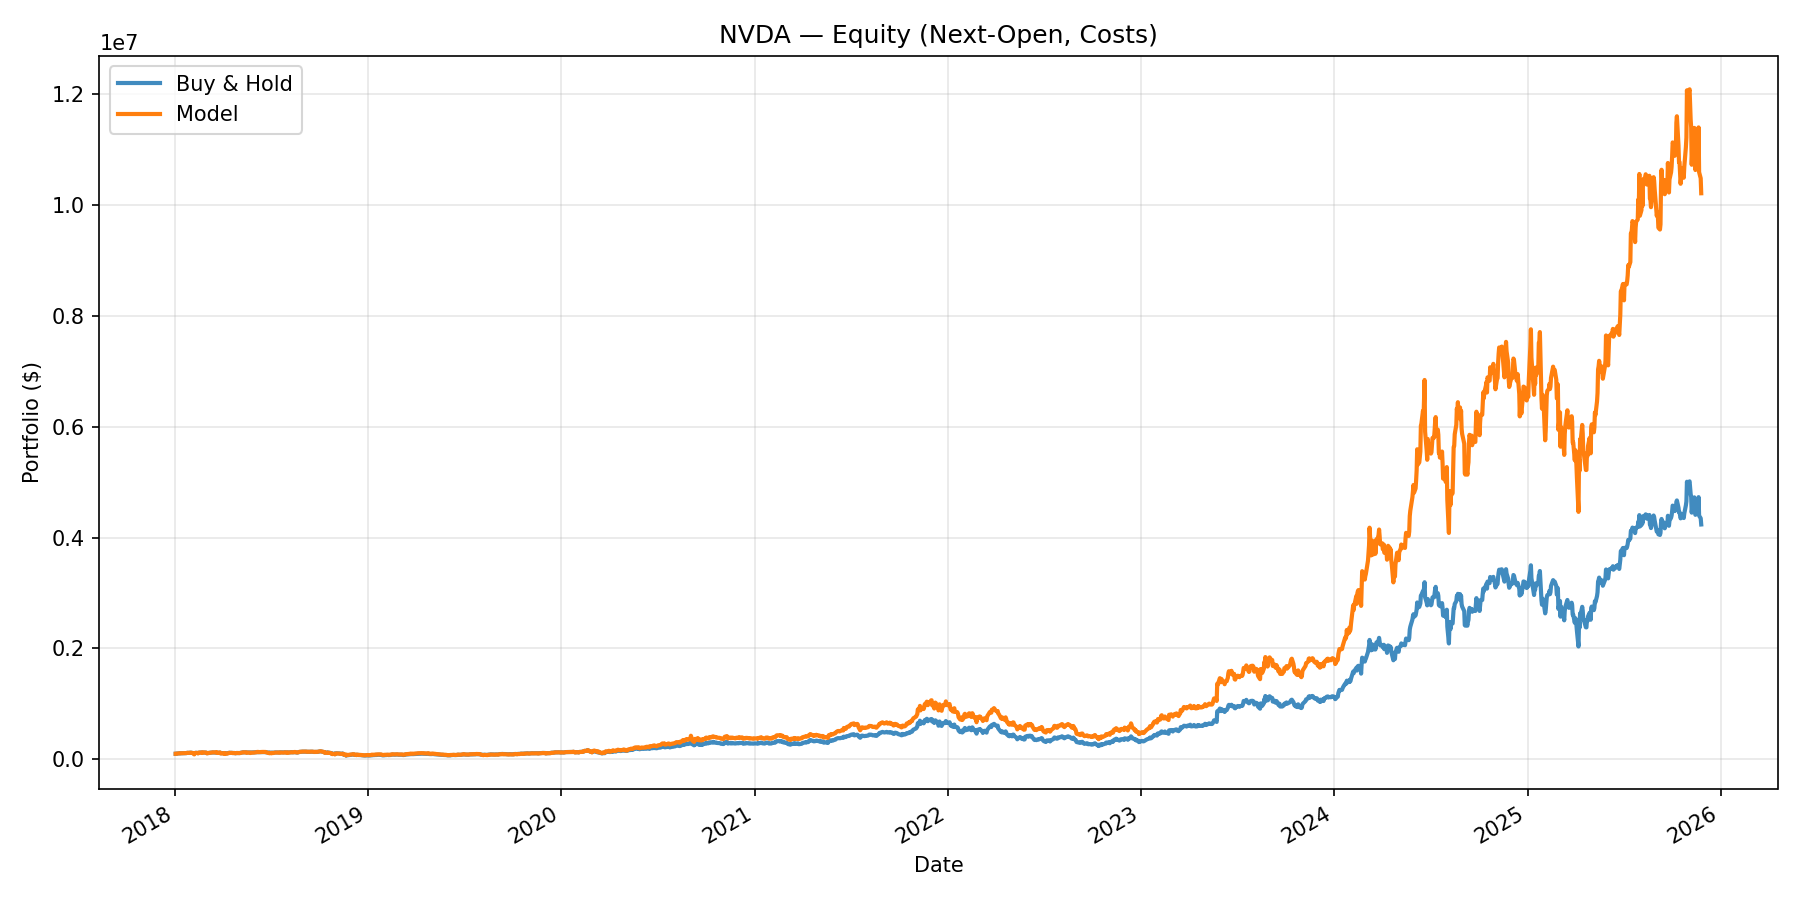
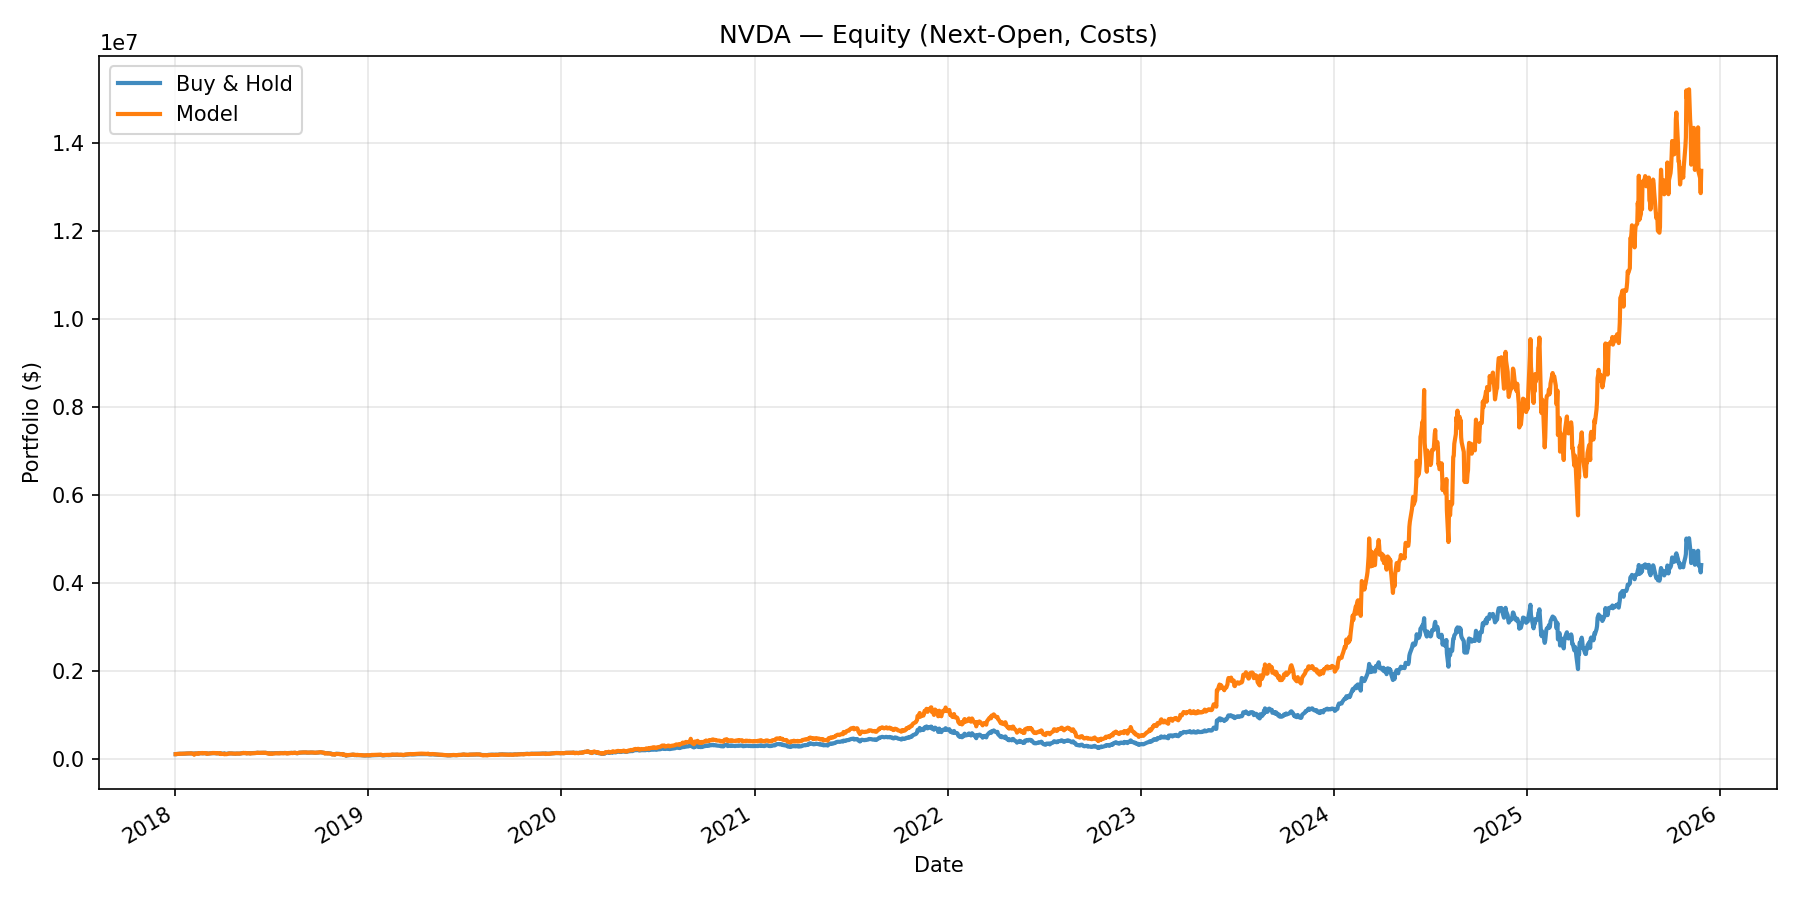
updated readme, added some comments

diff --git a/scripts/config.py b/scripts/config.py
@@ -10,7 +10,7 @@ from pathlib import Path
 FAST_MODE = True  # quick run on shorter history; flip to False for longer history
 
 # ===================== Config =====================
-TICKER = "SPY"
+TICKER = "NVDA"
 START  = "2018-01-01" if FAST_MODE else "2010-01-01"
 H = 5  # label horizon in trading days: predict whether Open[t+H] > Open[t]
 
@@ -35,11 +35,11 @@ GBM_PARAMS = dict(
 
 # Exposure policy: start from a baseline and tilt up/down with model confidence
 BASE_EXPOSURE = 1.00  # always hold 1.0x baseline (long-only)
-THR_UP        = 0.60  # if P(up) >= THR_UP, add long exposure
-THR_DN        = 0.40  # if P(up) <= THR_DN, cut exposure
-MAX_ADD       = 0.70  # max additional long exposure above baseline
+THR_UP        = 0.55  # if P(up) >= THR_UP, add long exposure
+THR_DN        = 0.45  # if P(up) <= THR_DN, cut exposure
+MAX_ADD       = 0.8  # max additional long exposure above baseline
 MAX_SUB       = 0.50  # max reduction from baseline
-MAX_GROSS     = 1.70  # cap final exposure for sanity (long-only floor applied later)
+MAX_GROSS     = 1.80  # cap final exposure for sanity (long-only floor applied later)
 
 # Trend gate for tilts: "none", "loose"(20/100 SMA), "strict"(50/200 SMA)
 TREND_MODE    = "loose"

diff --git a/scripts/main.py b/scripts/main.py
@@ -54,6 +54,12 @@ def main() -> None:
         max_train_window=MAX_TRAIN_WINDOW,
         params=None,
     )
+
+    print("\n=== Probability distribution check ===")
+    print(probs.describe())
+    print(probs.tail(20))
+    
+    print("======================================\n")
     # Ensure a fully populated probability series aligned to X
     if probs.empty:
         probs = pd.Series(0.5, index=X.index, name="p_up")

diff --git a/README.md b/README.md
@@ -175,8 +175,8 @@ These settings were empirically stable and outperformed tuned alternatives.
 ## 💼 Strategy Logic (Exposure Model)
 
 - Always hold 1.0x baseline long:
-   - If P(up) ≥ 0.60 → add long tilt (up to max_add)
-   - If P(up) ≤ 0.40 → reduce long exposure (down to base − max_sub)
+   - If P(up) ≥ 0.55 → add long tilt (up to max_add)
+   - If P(up) ≤ 0.45 → reduce long exposure (down to base − max_sub)
 
 - Apply trend gate:
    - loose = 20/100 SMA filter
